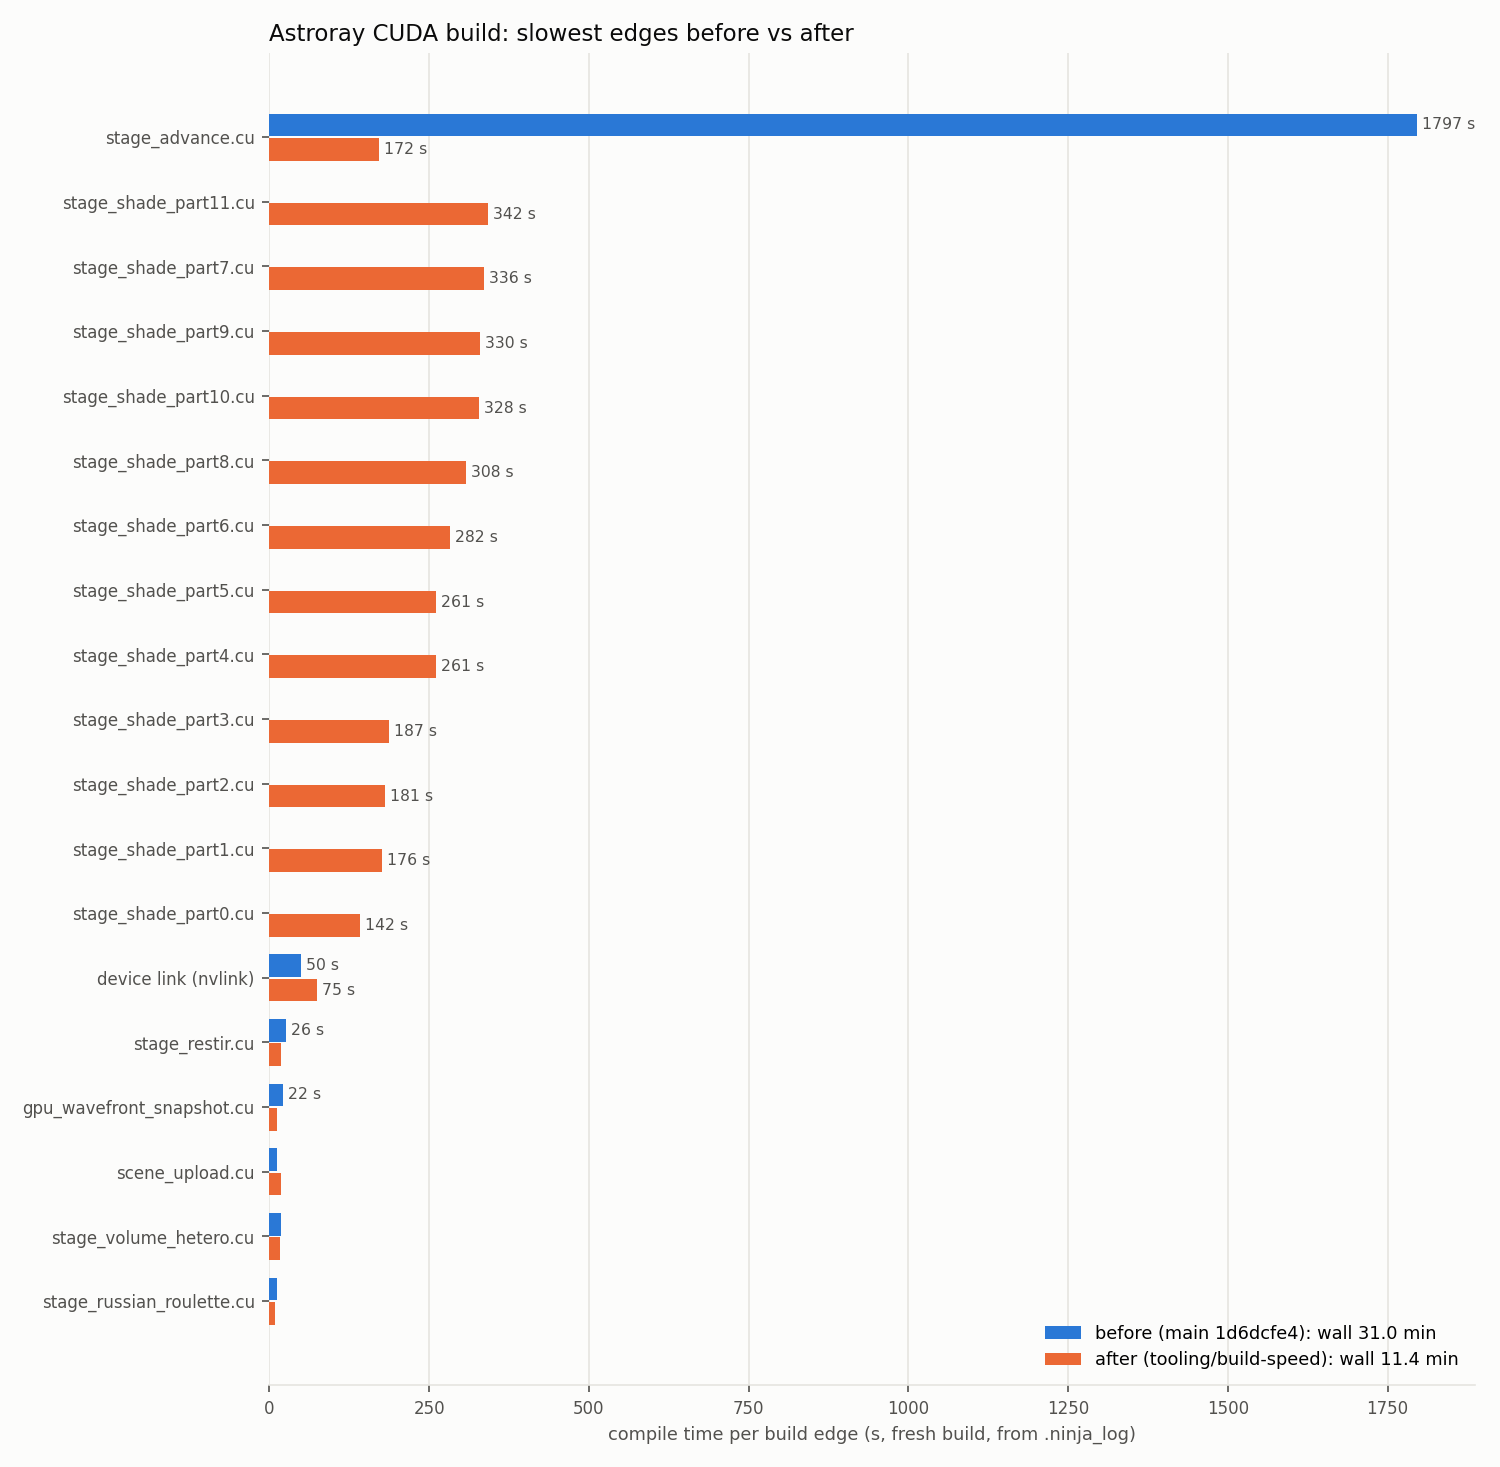
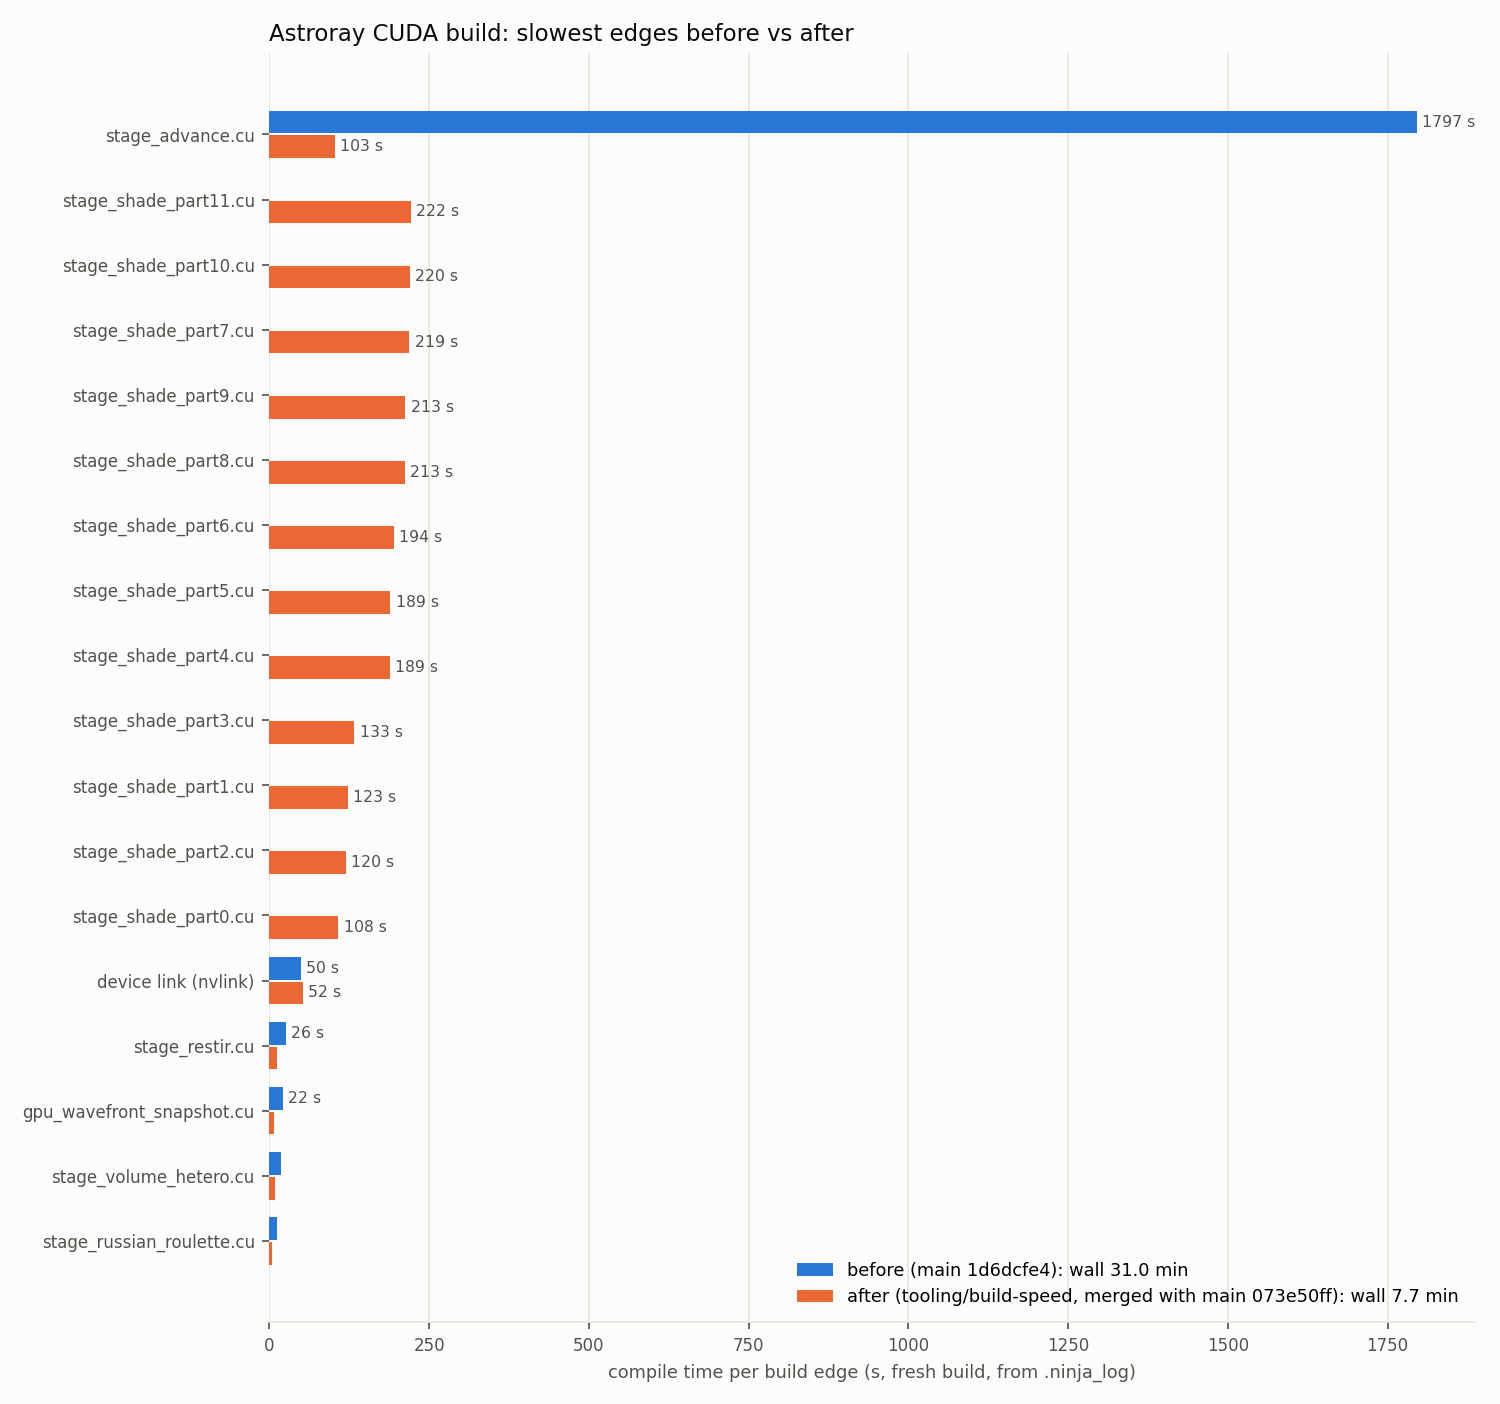
docs(build): directive results after merging main (477 s fresh, 358/358 kernels identical)

diff --git a/.astroray_plan/docs/build-speed-directive.md b/.astroray_plan/docs/build-speed-directive.md
@@ -104,7 +104,8 @@ guard. "ninja" is the `.ninja_log` span.
 | Build | queue | ninja | Critical path |
 |---|---:|---:|---|
 | before, fresh | 1874 s (31.2 min) | 1858 s | `stage_advance.cu` 1797 s → device link 50 s |
-| after, fresh | **704 s (11.7 min)** | 682 s | 13 heavy TUs in a 6-slot pool (142-342 s each, contended) → device link 75 s → `.pyd` link 11 s |
+| after, fresh, quiet machine (merged with main 073e50ff) | **477 s (8.0 min)** | 464 s | 13 heavy TUs in a 6-slot pool (103-222 s each) → device link 52 s → `.pyd` link |
+| after, fresh, other lanes loading the CPU | 704 s (11.7 min) | 682 s | same, with parts inflated to 142-342 s → device link 75 s → `.pyd` link 11 s |
 | after, touch one shade part | **208 s (3.5 min)** | 204 s | part 146 s → device link 52 s → link 5 s |
 | after, touch `stage_advance.cu` | **132 s (2.2 min)** | 128 s | TU 69 s → device link 52 s → link 7 s |
 | after, touch `stage_advance_device.cuh` or any header it reaches | ≈ fresh (~11 min) | | all 13 heavy TUs |
@@ -113,8 +114,12 @@ guard. "ninja" is the `.ninja_log` span.
 ![Per-TU compile time before vs after](build-speed-2026-09-30.png)
 
 **Kernel identity.** Compared `cuobjdump -res-usage` on the baseline `.pyd`
-(main 1d6dcfe4, same toolkit and flags) against the final `.pyd`, with
-anonymous-namespace hashes normalised:
+(main 1d6dcfe4, same toolkit and flags) against the split `.pyd`, with
+anonymous-namespace hashes normalised. After merging main 073e50ff (#962
+textured emission, ported into the split layout), the check was repeated
+against a main-equivalent build: am-nodes c1b47f8c, whose only source delta
+is host-only `advanced_features.h`. Result: 358/358 functions, 0 REG/STACK
+differences.
 
 - All 356 functions are present in both. REG, STACK, SHARED, LOCAL and
   CONSTANT[0] are identical on all 356. The implementer also diffed full SASS
@@ -129,7 +134,8 @@ anonymous-namespace hashes normalised:
   kernel to a new TU only with a res-usage comparison.** Inlining depends on
   what else the TU contains.
 
-**Smoke.** 28 GPU tests passed on the final `.pyd` (`astroray.__file__` in
+**Smoke.** On the merged `.pyd`, 38 GPU tests passed: the 28 below plus
+`test_issue962_gpu_textured_emission.py`. Before the merge, the 28 passed (`astroray.__file__` in
 `Astroray-buildspeed/build_cuda`): pkg178 principled parity, pkg186 texture,
 pkg189 dispersion, pkg223 normal map, #825/#826 op-VM inputs, and pkg198
 light-path passes. Together they cover every shade axis.
@@ -147,7 +153,8 @@ builds use sccache, and those are serialised.
 
 ## 3b. Remaining gap and next levers
 
-- Target ≤ 12 min fresh: **met** (11.7 min).
+- Target ≤ 12 min fresh: **met**. 8.0 min on a quiet machine and 11.7 min
+  under other lanes' load, against 27-35 min before.
 - Target ≤ 3 min incremental: **met for `stage_advance.cu` (2.2 min)**, and
   **missed by ~30 s for a shade part (3.5 min)**. **Missed for header edits**
   (~11 min): every GPU header change still rebuilds all 13 heavy TUs. That is
